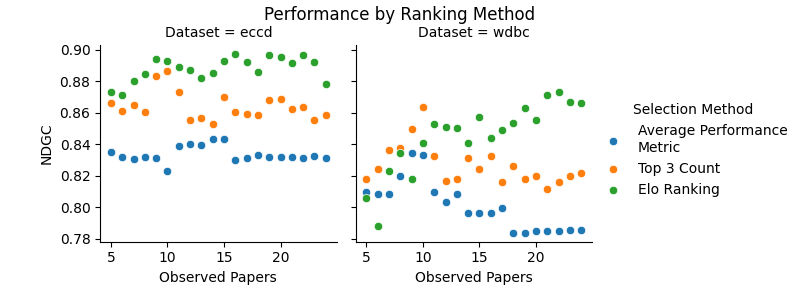
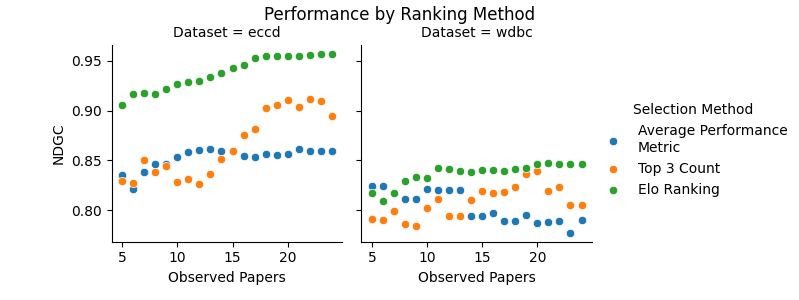
implemented cross validation for elo ranking

diff --git a/experiments/main.py b/experiments/main.py
@@ -80,34 +80,37 @@ for rst in trange(10):
             rankings[time_interval][dataset]["baseline_2"] = baseline2
 
             # test 1: use the elo ranking to select the best models
-            elo = EloSystem(use_mov= True, mov_delta= 2, mov_alpha= 2)
-            for algorithm in combined_paper_performance_table["model"].unique():
-                elo.add_player(algorithm)
-            for i, performance_df in combined_paper_performance_table.loc[combined_paper_performance_table["id"] < time_interval].groupby("id"):
-                for metric in metrics_ordered[dataset]:
-                    if metric in performance_df["metric"].unique():
-                        chosen_metric = metric
-                        idx_chosen_metric = metrics_ordered[dataset].index(chosen_metric)
-                        break
-                usecase_cofindence = 2
-                if idx_chosen_metric == 0:
-                    usecase_cofindence = 3
-                elif idx_chosen_metric > int(performance_df["metric"].nunique()/2):
-                    usecase_cofindence = 1
-                temp_df_dict= performance_df.loc[(performance_df["metric"] == chosen_metric) & (performance_df["dataset"] == dataset)][["model", "score"]].set_index("model")["score"].to_dict()
-                temp_df_dict = itertools.combinations([(key, temp_df_dict[key]) for key in temp_df_dict], r=2)
-                temp_df_dict = [(comp[0][0], comp[1][0], comp[0][0]) if comp[0][1] > comp[1][1] else (comp[0][0], comp[1][0], None) if comp[0][1] >= comp[1][1] else (comp[0][0], comp[1][0], comp[1][0]) for comp in temp_df_dict]
+            cv_eloranking = pd.DataFrame([])
+            for fold in range(5):
+                elo = EloSystem(use_mov= True, mov_delta= 2, mov_alpha= 2)
+                for algorithm in combined_paper_performance_table["model"].unique():
+                    elo.add_player(algorithm)
+                for i, performance_df in combined_paper_performance_table.loc[combined_paper_performance_table["id"] < time_interval].groupby("id"):
+                    for metric in metrics_ordered[dataset]:
+                        if metric in performance_df["metric"].unique():
+                            chosen_metric = metric
+                            idx_chosen_metric = metrics_ordered[dataset].index(chosen_metric)
+                            break
+                    usecase_cofindence = 2
+                    if idx_chosen_metric == 0:
+                        usecase_cofindence = 3
+                    elif idx_chosen_metric > int(performance_df["metric"].nunique()/2):
+                        usecase_cofindence = 1
+                    temp_df_dict= performance_df.loc[(performance_df["metric"] == chosen_metric) & (performance_df["dataset"] == dataset)][["model", "score"]].set_index("model")["score"].to_dict()
+                    temp_df_dict = itertools.combinations([(key, temp_df_dict[key]) for key in temp_df_dict], r=2)
+                    temp_df_dict = [(comp[0][0], comp[1][0], comp[0][0]) if comp[0][1] > comp[1][1] else (comp[0][0], comp[1][0], None) if comp[0][1] >= comp[1][1] else (comp[0][0], comp[1][0], comp[1][0]) for comp in temp_df_dict]
 
-                for comp in temp_df_dict:
-                    elo.record_match(*comp, mov=(2 + usecase_cofindence) / 2)
-                    #elo.record_match(*comp)
+                    for comp in temp_df_dict:
+                        elo.record_match(*comp, mov=(2 + usecase_cofindence) / 2)
+                        #elo.record_match(*comp)
+                cv_eloranking = pd.concat((cv_eloranking, pd.DataFrame(elo.get_overall_list())))
 
-            eloranking = pd.DataFrame(elo.get_overall_list())
-            eloranking = eloranking.rename(columns= {"player": "model", "elo": "score"})
-            eloranking["dataset"] = dataset
-            eloranking["rank"] = eloranking.sort_values("score", ascending=False).rank(ascending=False)["score"]
+            cv_eloranking = cv_eloranking.rename(columns={"player": "model", "elo": "score"})
+            cv_eloranking["dataset"] = dataset
+            cv_eloranking = cv_eloranking.groupby(["model", "dataset"]).mean().reset_index()
+            cv_eloranking["rank"] = cv_eloranking.sort_values("score", ascending=False).rank(ascending=False)["score"]
 
-            rankings[time_interval][dataset]["eloranking"] = eloranking
+            rankings[time_interval][dataset]["eloranking"] = cv_eloranking
 
     # gold standard: use the full evaluation to select the best models
     with open(full_evaluation_path, "r") as f:
@@ -146,7 +149,7 @@ g.add_legend()
 #g.map(plt.axhline, y=1, ls='--', color='black')
 plt.suptitle("Performance by Ranking Method")
 plt.subplots_adjust(top=0.85)
-plt.savefig("./plots/performance_by_ranking_method_scatter.png")
+#plt.savefig("./plots/performance_by_ranking_method_scatter.png")
 plt.show()
 
 # test difference in mean between the methods

diff --git a/main.py b/main.py
@@ -133,27 +133,34 @@ def calculateElo():
                 performance_dfs.append(temp_df_dict)
             except:
                 failed_files.append(file)
-        elo = EloSystem(use_mov= True, mov_delta= 2)
-        for algorithm in algos.keys():
-            elo.add_player(algorithm)
-        for performance_df in performance_dfs:
-            for comp in performance_df["data"]:
-                elo.record_match(*comp, mov= (performance_df["paper_confidence"] + performance_df["usecase_confidence"])/2)
-        ranking = elo.get_overall_list()
-        for i in range(len(ranking)):
-            ranking[i]["rank"] = i
-            ranking[i]["prob"] = "{0:.0%}".format(ranking[i]["prob"])
-            ranking[i]["files"] = algos[ranking[i]["player"]]
+
+        cv_ranking = pd.DataFrame()
+        for fold in range(5):
+            elo = EloSystem(use_mov= True, mov_delta= 2)
+            for algorithm in algos.keys():
+                elo.add_player(algorithm)
+            for performance_df in performance_dfs:
+                for comp in performance_df["data"]:
+                    elo.record_match(*comp, mov= (performance_df["paper_confidence"] + performance_df["usecase_confidence"])/2)
+            ranking = elo.get_overall_list()
+            for i in range(len(ranking)):
+                ranking[i]["prob"] = ranking[i]["prob"]
+                ranking[i]["files"] = str(algos[ranking[i]["player"]])
+            cv_ranking = pd.concat((cv_ranking, pd.DataFrame(ranking)))
+        cv_ranking = cv_ranking.groupby(["player", "files"]).mean().reset_index()
+        cv_ranking["prob"] = cv_ranking["prob"].apply(lambda x: "{0:.0%}".format(x))
+        cv_ranking = cv_ranking.sort_values("elo", ascending=False)
+        cv_ranking["rank"] = cv_ranking.rank(ascending=False)["elo"]
         file_name = uuid.uuid4().hex + ".xlsx"
         temp_xlsx = "/tmp/" + file_name
-        pd.DataFrame(ranking).to_excel(temp_xlsx)
+        pd.DataFrame(cv_ranking).to_excel(temp_xlsx)
         bucket = storage_client.bucket(session["id"] + "_results")
         initTempBucket(bucket)
         blob = bucket.blob(file_name)
         blob.upload_from_filename(temp_xlsx)
         file_url = blob.generate_signed_url(datetime.timedelta(seconds= 600), method= "GET")
         os.remove(temp_xlsx)
-        return render_template("results.html", results= ranking, ranking_file= file_url, failed_files= failed_files)
+        return render_template("results.html", results= cv_ranking, ranking_file= file_url, failed_files= failed_files)
     else:
         abort(422)
 

diff --git a/experiments/fullEvaluation.py b/experiments/fullEvaluation.py
@@ -92,15 +92,15 @@ for resample in list(set(flatten([[key2 for key2 in resampling[key1].keys()] for
                 else:
                     X = preprocessing[preprocess].fit_transform(X)
 
+                # do 5-fold cross validation
                 for i in range(5):
                     train_X, test_X, train_y, test_y = train_test_split(X, y, test_size=0.3, random_state=i)
 
-                    if resample:
-                        if not resample == "outlier removal iqr":
-                            if train_y.sum() / (len(train_y) - train_y.sum()) < resampling[Path(dataset).stem][resample].sampling_strategy:
-                                train_X, train_y = resampling[Path(dataset).stem][resample].fit_resample(train_X, train_y)
-                        else:
+                    if not resample == "outlier removal iqr":
+                        if train_y.sum() / (len(train_y) - train_y.sum()) < resampling[Path(dataset).stem][resample].sampling_strategy:
                             train_X, train_y = resampling[Path(dataset).stem][resample].fit_resample(train_X, train_y)
+                    else:
+                        train_X, train_y = resampling[Path(dataset).stem][resample].fit_resample(train_X, train_y)
 
                     for model in models:
                         if not model in results_dict_temp[Path(dataset).stem].keys():
